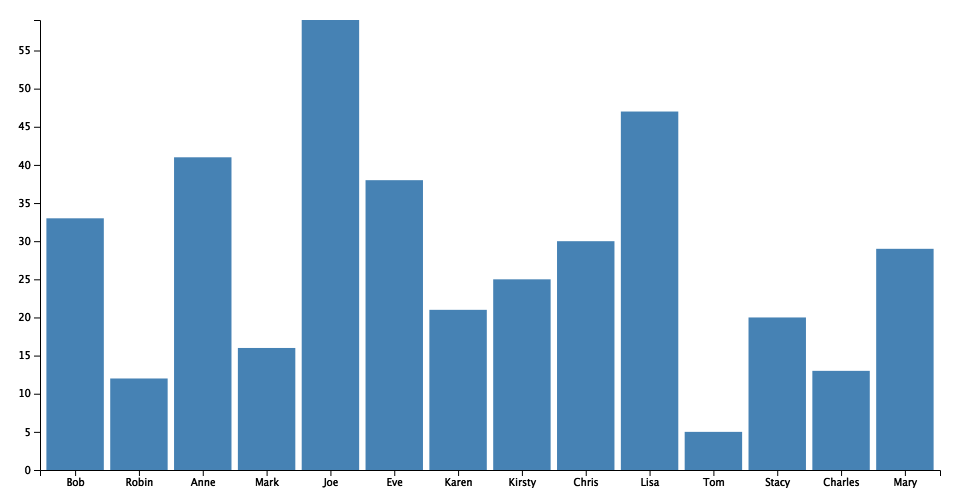
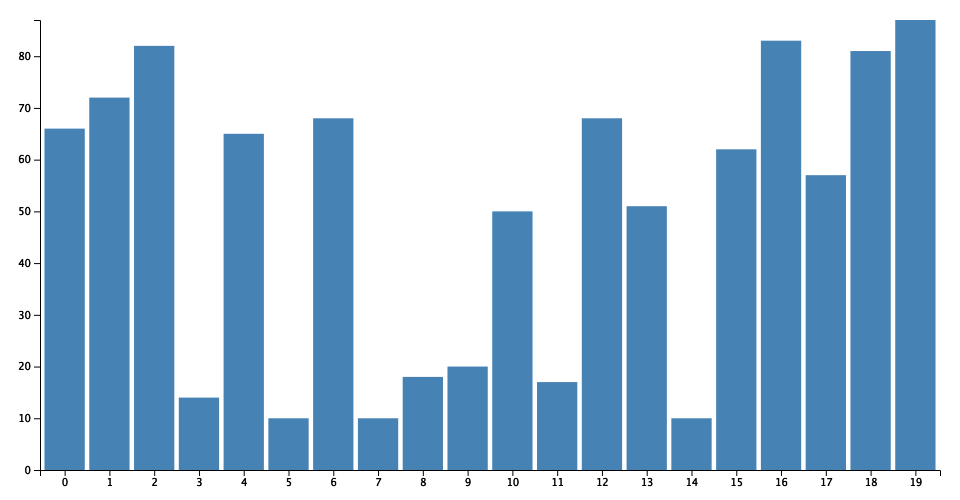
remove data folder; refactor params structure

diff --git a/example/output.html b/example/output.html
@@ -1,11 +1,11 @@
 <html><head></head><body><div id="container">
-  <h2>Bar Chart</h2>
-  <div id="chart"><svg xmlns="http://www.w3.org/2000/svg" width="960" height="500"><defs><style type="text/css"><![CDATA[ 
-.bar{fill: steelblue;}
-.bar:hover{fill: brown;}
-.axis{font: 10px sans-serif;}
-.axis path,.axis line{fill: none;stroke: #000;shape-rendering: crispEdges;}
-.x.axis path{display: none;}
- ]]></style></defs><g transform="translate(40, 20)"><rect class="bar" x="6.3829787234042215" width="57.4468085106383" y="198.30508474576274" height="251.69491525423726"></rect><rect class="bar" x="70.21276595744678" width="57.4468085106383" y="358.47457627118644" height="91.52542372881356"></rect><rect class="bar" x="134.04255319148933" width="57.4468085106383" y="137.28813559322032" height="312.7118644067797"></rect><rect class="bar" x="197.8723404255319" width="57.4468085106383" y="327.96610169491527" height="122.03389830508473"></rect><rect class="bar" x="261.70212765957444" width="57.4468085106383" y="0" height="450"></rect><rect class="bar" x="325.531914893617" width="57.4468085106383" y="160.16949152542378" height="289.8305084745762"></rect><rect class="bar" x="389.36170212765956" width="57.4468085106383" y="289.8305084745763" height="160.16949152542372"></rect><rect class="bar" x="453.1914893617021" width="57.4468085106383" y="259.3220338983051" height="190.6779661016949"></rect><rect class="bar" x="517.0212765957447" width="57.4468085106383" y="221.18644067796612" height="228.81355932203388"></rect><rect class="bar" x="580.8510638297872" width="57.4468085106383" y="91.52542372881356" height="358.47457627118644"></rect><rect class="bar" x="644.6808510638298" width="57.4468085106383" y="411.864406779661" height="38.13559322033899"></rect><rect class="bar" x="708.5106382978723" width="57.4468085106383" y="297.45762711864404" height="152.54237288135596"></rect><rect class="bar" x="772.3404255319149" width="57.4468085106383" y="350.8474576271186" height="99.15254237288138"></rect><rect class="bar" x="836.1702127659574" width="57.4468085106383" y="228.81355932203388" height="221.18644067796612"></rect><g transform="translate(0,450)" fill="none" font-size="10" font-family="sans-serif" text-anchor="middle"><path class="domain" stroke="#000" d="M0.5,6V0.5H900.5V6"></path><g class="tick" opacity="1" transform="translate(35.106382978723374,0)"><line stroke="#000" y2="6" x1="0.5" x2="0.5"></line><text fill="#000" y="9" x="0.5" dy="0.71em">Bob</text></g><g class="tick" opacity="1" transform="translate(98.93617021276593,0)"><line stroke="#000" y2="6" x1="0.5" x2="0.5"></line><text fill="#000" y="9" x="0.5" dy="0.71em">Robin</text></g><g class="tick" opacity="1" transform="translate(162.76595744680847,0)"><line stroke="#000" y2="6" x1="0.5" x2="0.5"></line><text fill="#000" y="9" x="0.5" dy="0.71em">Anne</text></g><g class="tick" opacity="1" transform="translate(226.59574468085103,0)"><line stroke="#000" y2="6" x1="0.5" x2="0.5"></line><text fill="#000" y="9" x="0.5" dy="0.71em">Mark</text></g><g class="tick" opacity="1" transform="translate(290.4255319148936,0)"><line stroke="#000" y2="6" x1="0.5" x2="0.5"></line><text fill="#000" y="9" x="0.5" dy="0.71em">Joe</text></g><g class="tick" opacity="1" transform="translate(354.25531914893617,0)"><line stroke="#000" y2="6" x1="0.5" x2="0.5"></line><text fill="#000" y="9" x="0.5" dy="0.71em">Eve</text></g><g class="tick" opacity="1" transform="translate(418.0851063829787,0)"><line stroke="#000" y2="6" x1="0.5" x2="0.5"></line><text fill="#000" y="9" x="0.5" dy="0.71em">Karen</text></g><g class="tick" opacity="1" transform="translate(481.9148936170213,0)"><line stroke="#000" y2="6" x1="0.5" x2="0.5"></line><text fill="#000" y="9" x="0.5" dy="0.71em">Kirsty</text></g><g class="tick" opacity="1" transform="translate(545.7446808510638,0)"><line stroke="#000" y2="6" x1="0.5" x2="0.5"></line><text fill="#000" y="9" x="0.5" dy="0.71em">Chris</text></g><g class="tick" opacity="1" transform="translate(609.5744680851063,0)"><line stroke="#000" y2="6" x1="0.5" x2="0.5"></line><text fill="#000" y="9" x="0.5" dy="0.71em">Lisa</text></g><g class="tick" opacity="1" transform="translate(673.4042553191489,0)"><line stroke="#000" y2="6" x1="0.5" x2="0.5"></line><text fill="#000" y="9" x="0.5" dy="0.71em">Tom</text></g><g class="tick" opacity="1" transform="translate(737.2340425531914,0)"><line stroke="#000" y2="6" x1="0.5" x2="0.5"></line><text fill="#000" y="9" x="0.5" dy="0.71em">Stacy</text></g><g class="tick" opacity="1" transform="translate(801.063829787234,0)"><line stroke="#000" y2="6" x1="0.5" x2="0.5"></line><text fill="#000" y="9" x="0.5" dy="0.71em">Charles</text></g><g class="tick" opacity="1" transform="translate(864.8936170212766,0)"><line stroke="#000" y2="6" x1="0.5" x2="0.5"></line><text fill="#000" y="9" x="0.5" dy="0.71em">Mary</text></g></g><g fill="none" font-size="10" font-family="sans-serif" text-anchor="end"><path class="domain" stroke="#000" d="M-6,450.5H0.5V0.5H-6"></path><g class="tick" opacity="1" transform="translate(0,450)"><line stroke="#000" x2="-6" y1="0.5" y2="0.5"></line><text fill="#000" x="-9" y="0.5" dy="0.32em">0</text></g><g class="tick" opacity="1" transform="translate(0,411.864406779661)"><line stroke="#000" x2="-6" y1="0.5" y2="0.5"></line><text fill="#000" x="-9" y="0.5" dy="0.32em">5</text></g><g class="tick" opacity="1" transform="translate(0,373.728813559322)"><line stroke="#000" x2="-6" y1="0.5" y2="0.5"></line><text fill="#000" x="-9" y="0.5" dy="0.32em">10</text></g><g class="tick" opacity="1" transform="translate(0,335.5932203389831)"><line stroke="#000" x2="-6" y1="0.5" y2="0.5"></line><text fill="#000" x="-9" y="0.5" dy="0.32em">15</text></g><g class="tick" opacity="1" transform="translate(0,297.45762711864404)"><line stroke="#000" x2="-6" y1="0.5" y2="0.5"></line><text fill="#000" x="-9" y="0.5" dy="0.32em">20</text></g><g class="tick" opacity="1" transform="translate(0,259.3220338983051)"><line stroke="#000" x2="-6" y1="0.5" y2="0.5"></line><text fill="#000" x="-9" y="0.5" dy="0.32em">25</text></g><g class="tick" opacity="1" transform="translate(0,221.18644067796612)"><line stroke="#000" x2="-6" y1="0.5" y2="0.5"></line><text fill="#000" x="-9" y="0.5" dy="0.32em">30</text></g><g class="tick" opacity="1" transform="translate(0,183.05084745762713)"><line stroke="#000" x2="-6" y1="0.5" y2="0.5"></line><text fill="#000" x="-9" y="0.5" dy="0.32em">35</text></g><g class="tick" opacity="1" transform="translate(0,144.91525423728814)"><line stroke="#000" x2="-6" y1="0.5" y2="0.5"></line><text fill="#000" x="-9" y="0.5" dy="0.32em">40</text></g><g class="tick" opacity="1" transform="translate(0,106.77966101694915)"><line stroke="#000" x2="-6" y1="0.5" y2="0.5"></line><text fill="#000" x="-9" y="0.5" dy="0.32em">45</text></g><g class="tick" opacity="1" transform="translate(0,68.64406779661016)"><line stroke="#000" x2="-6" y1="0.5" y2="0.5"></line><text fill="#000" x="-9" y="0.5" dy="0.32em">50</text></g><g class="tick" opacity="1" transform="translate(0,30.508474576271226)"><line stroke="#000" x2="-6" y1="0.5" y2="0.5"></line><text fill="#000" x="-9" y="0.5" dy="0.32em">55</text></g></g></g></svg></div>
-</div>
-</body></html>
+      <h2>Bar Chart</h2>
+      <div id="chart"><svg xmlns="http://www.w3.org/2000/svg" width="960" height="500"><defs><style type="text/css"><![CDATA[ 
+    .bar{fill: steelblue;}
+    .bar:hover{fill: brown;}
+    .axis{font: 10px sans-serif;}
+    .axis path,.axis line{fill: none;stroke: #000;shape-rendering: crispEdges;}
+    .x.axis path{display: none;}
+   ]]></style></defs><g transform="translate(40, 20)"><rect class="bar" x="4.477611940298459" width="40.29850746268657" y="108.62068965517244" height="341.37931034482756"></rect><rect class="bar" x="49.25373134328354" width="40.29850746268657" y="77.58620689655174" height="372.41379310344826"></rect><rect class="bar" x="94.02985074626862" width="40.29850746268657" y="25.862068965517267" height="424.13793103448273"></rect><rect class="bar" x="138.8059701492537" width="40.29850746268657" y="377.58620689655174" height="72.41379310344826"></rect><rect class="bar" x="183.58208955223878" width="40.29850746268657" y="113.79310344827587" height="336.2068965517241"></rect><rect class="bar" x="228.35820895522386" width="40.29850746268657" y="398.2758620689655" height="51.72413793103448"></rect><rect class="bar" x="273.13432835820896" width="40.29850746268657" y="98.27586206896552" height="351.7241379310345"></rect><rect class="bar" x="317.910447761194" width="40.29850746268657" y="398.2758620689655" height="51.72413793103448"></rect><rect class="bar" x="362.6865671641791" width="40.29850746268657" y="356.8965517241379" height="93.10344827586209"></rect><rect class="bar" x="407.4626865671642" width="40.29850746268657" y="346.55172413793105" height="103.44827586206895"></rect><rect class="bar" x="452.23880597014926" width="40.29850746268657" y="191.37931034482762" height="258.6206896551724"></rect><rect class="bar" x="497.01492537313436" width="40.29850746268657" y="362.0689655172414" height="87.9310344827586"></rect><rect class="bar" x="541.7910447761194" width="40.29850746268657" y="98.27586206896552" height="351.7241379310345"></rect><rect class="bar" x="586.5671641791046" width="40.29850746268657" y="186.20689655172418" height="263.7931034482758"></rect><rect class="bar" x="631.3432835820895" width="40.29850746268657" y="398.2758620689655" height="51.72413793103448"></rect><rect class="bar" x="676.1194029850747" width="40.29850746268657" y="129.31034482758622" height="320.6896551724138"></rect><rect class="bar" x="720.8955223880598" width="40.29850746268657" y="20.689655172413836" height="429.31034482758616"></rect><rect class="bar" x="765.6716417910447" width="40.29850746268657" y="155.17241379310343" height="294.82758620689657"></rect><rect class="bar" x="810.4477611940299" width="40.29850746268657" y="31.034482758620697" height="418.9655172413793"></rect><rect class="bar" x="855.2238805970151" width="40.29850746268657" y="0" height="450"></rect><g transform="translate(0,450)" fill="none" font-size="10" font-family="sans-serif" text-anchor="middle"><path class="domain" stroke="#000" d="M0.5,6V0.5H900.5V6"></path><g class="tick" opacity="1" transform="translate(24.626865671641745,0)"><line stroke="#000" y2="6" x1="0.5" x2="0.5"></line><text fill="#000" y="9" x="0.5" dy="0.71em">0</text></g><g class="tick" opacity="1" transform="translate(69.40298507462683,0)"><line stroke="#000" y2="6" x1="0.5" x2="0.5"></line><text fill="#000" y="9" x="0.5" dy="0.71em">1</text></g><g class="tick" opacity="1" transform="translate(114.1791044776119,0)"><line stroke="#000" y2="6" x1="0.5" x2="0.5"></line><text fill="#000" y="9" x="0.5" dy="0.71em">2</text></g><g class="tick" opacity="1" transform="translate(158.955223880597,0)"><line stroke="#000" y2="6" x1="0.5" x2="0.5"></line><text fill="#000" y="9" x="0.5" dy="0.71em">3</text></g><g class="tick" opacity="1" transform="translate(203.73134328358208,0)"><line stroke="#000" y2="6" x1="0.5" x2="0.5"></line><text fill="#000" y="9" x="0.5" dy="0.71em">4</text></g><g class="tick" opacity="1" transform="translate(248.50746268656715,0)"><line stroke="#000" y2="6" x1="0.5" x2="0.5"></line><text fill="#000" y="9" x="0.5" dy="0.71em">5</text></g><g class="tick" opacity="1" transform="translate(293.2835820895522,0)"><line stroke="#000" y2="6" x1="0.5" x2="0.5"></line><text fill="#000" y="9" x="0.5" dy="0.71em">6</text></g><g class="tick" opacity="1" transform="translate(338.0597014925373,0)"><line stroke="#000" y2="6" x1="0.5" x2="0.5"></line><text fill="#000" y="9" x="0.5" dy="0.71em">7</text></g><g class="tick" opacity="1" transform="translate(382.8358208955224,0)"><line stroke="#000" y2="6" x1="0.5" x2="0.5"></line><text fill="#000" y="9" x="0.5" dy="0.71em">8</text></g><g class="tick" opacity="1" transform="translate(427.6119402985075,0)"><line stroke="#000" y2="6" x1="0.5" x2="0.5"></line><text fill="#000" y="9" x="0.5" dy="0.71em">9</text></g><g class="tick" opacity="1" transform="translate(472.3880597014925,0)"><line stroke="#000" y2="6" x1="0.5" x2="0.5"></line><text fill="#000" y="9" x="0.5" dy="0.71em">10</text></g><g class="tick" opacity="1" transform="translate(517.1641791044776,0)"><line stroke="#000" y2="6" x1="0.5" x2="0.5"></line><text fill="#000" y="9" x="0.5" dy="0.71em">11</text></g><g class="tick" opacity="1" transform="translate(561.9402985074627,0)"><line stroke="#000" y2="6" x1="0.5" x2="0.5"></line><text fill="#000" y="9" x="0.5" dy="0.71em">12</text></g><g class="tick" opacity="1" transform="translate(606.7164179104478,0)"><line stroke="#000" y2="6" x1="0.5" x2="0.5"></line><text fill="#000" y="9" x="0.5" dy="0.71em">13</text></g><g class="tick" opacity="1" transform="translate(651.4925373134328,0)"><line stroke="#000" y2="6" x1="0.5" x2="0.5"></line><text fill="#000" y="9" x="0.5" dy="0.71em">14</text></g><g class="tick" opacity="1" transform="translate(696.2686567164179,0)"><line stroke="#000" y2="6" x1="0.5" x2="0.5"></line><text fill="#000" y="9" x="0.5" dy="0.71em">15</text></g><g class="tick" opacity="1" transform="translate(741.0447761194031,0)"><line stroke="#000" y2="6" x1="0.5" x2="0.5"></line><text fill="#000" y="9" x="0.5" dy="0.71em">16</text></g><g class="tick" opacity="1" transform="translate(785.820895522388,0)"><line stroke="#000" y2="6" x1="0.5" x2="0.5"></line><text fill="#000" y="9" x="0.5" dy="0.71em">17</text></g><g class="tick" opacity="1" transform="translate(830.5970149253732,0)"><line stroke="#000" y2="6" x1="0.5" x2="0.5"></line><text fill="#000" y="9" x="0.5" dy="0.71em">18</text></g><g class="tick" opacity="1" transform="translate(875.3731343283583,0)"><line stroke="#000" y2="6" x1="0.5" x2="0.5"></line><text fill="#000" y="9" x="0.5" dy="0.71em">19</text></g></g><g fill="none" font-size="10" font-family="sans-serif" text-anchor="end"><path class="domain" stroke="#000" d="M-6,450.5H0.5V0.5H-6"></path><g class="tick" opacity="1" transform="translate(0,450)"><line stroke="#000" x2="-6" y1="0.5" y2="0.5"></line><text fill="#000" x="-9" y="0.5" dy="0.32em">0</text></g><g class="tick" opacity="1" transform="translate(0,398.2758620689655)"><line stroke="#000" x2="-6" y1="0.5" y2="0.5"></line><text fill="#000" x="-9" y="0.5" dy="0.32em">10</text></g><g class="tick" opacity="1" transform="translate(0,346.55172413793105)"><line stroke="#000" x2="-6" y1="0.5" y2="0.5"></line><text fill="#000" x="-9" y="0.5" dy="0.32em">20</text></g><g class="tick" opacity="1" transform="translate(0,294.8275862068965)"><line stroke="#000" x2="-6" y1="0.5" y2="0.5"></line><text fill="#000" x="-9" y="0.5" dy="0.32em">30</text></g><g class="tick" opacity="1" transform="translate(0,243.10344827586206)"><line stroke="#000" x2="-6" y1="0.5" y2="0.5"></line><text fill="#000" x="-9" y="0.5" dy="0.32em">40</text></g><g class="tick" opacity="1" transform="translate(0,191.37931034482762)"><line stroke="#000" x2="-6" y1="0.5" y2="0.5"></line><text fill="#000" x="-9" y="0.5" dy="0.32em">50</text></g><g class="tick" opacity="1" transform="translate(0,139.65517241379308)"><line stroke="#000" x2="-6" y1="0.5" y2="0.5"></line><text fill="#000" x="-9" y="0.5" dy="0.32em">60</text></g><g class="tick" opacity="1" transform="translate(0,87.9310344827586)"><line stroke="#000" x2="-6" y1="0.5" y2="0.5"></line><text fill="#000" x="-9" y="0.5" dy="0.32em">70</text></g><g class="tick" opacity="1" transform="translate(0,36.20689655172413)"><line stroke="#000" x2="-6" y1="0.5" y2="0.5"></line><text fill="#000" x="-9" y="0.5" dy="0.32em">80</text></g></g></g></svg></div>
+    </div>
+  </body></html>

diff --git a/index.js b/index.js
@@ -1,37 +1,36 @@
 const D3Node = require('d3-node');
 
-const defaultContainer = `
-<div id="container">
-  <h2>Bar Chart</h2>
-  <div id="chart"></div>
-</div>
-`;
-const defaultStyle = `
-.bar{fill: steelblue;}
-.bar:hover{fill: brown;}
-.axis{font: 10px sans-serif;}
-.axis path,.axis line{fill: none;stroke: #000;shape-rendering: crispEdges;}
-.x.axis path{display: none;}
-`;
-
-function bar (data, selector = '#chart', container = defaultContainer, style = defaultStyle/*, options*/) {
-
+function bar({
+  data,
+  selector: defaultSelector = '#chart',
+  container: defaultContainer = `
+    <div id="container">
+      <h2>Bar Chart</h2>
+      <div id="chart"></div>
+    </div>
+  `,
+  style: defaultStyle = `
+    .bar{fill: steelblue;}
+    .bar:hover{fill: brown;}
+    .axis{font: 10px sans-serif;}
+    .axis path,.axis line{fill: none;stroke: #000;shape-rendering: crispEdges;}
+    .x.axis path{display: none;}
+  `
+} = {}) {
   const d3n = new D3Node({
-    selector: selector,
-    svgStyles: style,
-    container: container
+    selector: defaultSelector,
+    svgStyles: defaultStyle,
+    container: defaultContainer
   });
 
   const d3 = d3n.d3;
 
   // adapted from: https://bl.ocks.org/d3noob/bdf28027e0ce70bd132edc64f1dd7ea4
-  ///-- start D3 code
-
   const margin = { top: 20, right: 20, bottom: 30, left: 40 };
   const width = 960 - margin.left - margin.right;
   const height = 500 - margin.top - margin.bottom;
 
- // set the ranges
+  // set the ranges
   const x = d3.scaleBand()
           .range([0, width])
           .padding(0.1);
@@ -45,18 +44,18 @@ function bar (data, selector = '#chart', container = defaultContainer, style = d
     .append('g')
     .attr('transform', `translate(${margin.left}, ${margin.top})`);
 
-  x.domain(data.map((d) => d.xAxis));
-  y.domain([0, d3.max(data, (d) => d.yAxis)]);
+  x.domain(data.map((d) => d.key));
+  y.domain([0, d3.max(data, (d) => d.value)]);
 
   // append the rectangles for the bar chart
   svg.selectAll('.bar')
       .data(data)
-    .enter().append('rect')
+      .enter().append('rect')
       .attr('class', 'bar')
-      .attr('x', (d) => x(d.xAxis))
+      .attr('x', (d) => x(d.key))
       .attr('width', x.bandwidth())
-      .attr('y', (d) => y(d.yAxis))
-      .attr('height', (d) => height - y(d.yAxis));
+      .attr('y', (d) => y(d.value))
+      .attr('height', (d) => height - y(d.value));
 
   // add the x Axis
   svg.append('g')
@@ -65,7 +64,6 @@ function bar (data, selector = '#chart', container = defaultContainer, style = d
 
   // add the y Axis
   svg.append('g').call(d3.axisLeft(y));
-  /// -- end D3 code
 
   return d3n;
 }

diff --git a/example/index.js b/example/index.js
@@ -1,10 +1,18 @@
 const output = require('d3node-output');
-const fs = require('fs');
-const d3 = require('d3-node')().d3;
 const d3nBar = require('../');
 
-const csvString = fs.readFileSync('data/data.csv').toString();
-var data = d3.csvParse(csvString);
+const gen = n => {
+  const data = [];
+
+  for (let i = 0; i < n; ++i) {
+    data.push({
+      key: i,
+      value: Math.max(10, Math.floor(Math.random() * 100)),
+    });
+  }
+
+  return data;
+};
 
 // create output files
-output('./example/output', d3nBar(data));
+output('./example/output', d3nBar({ data: gen(20) }));
